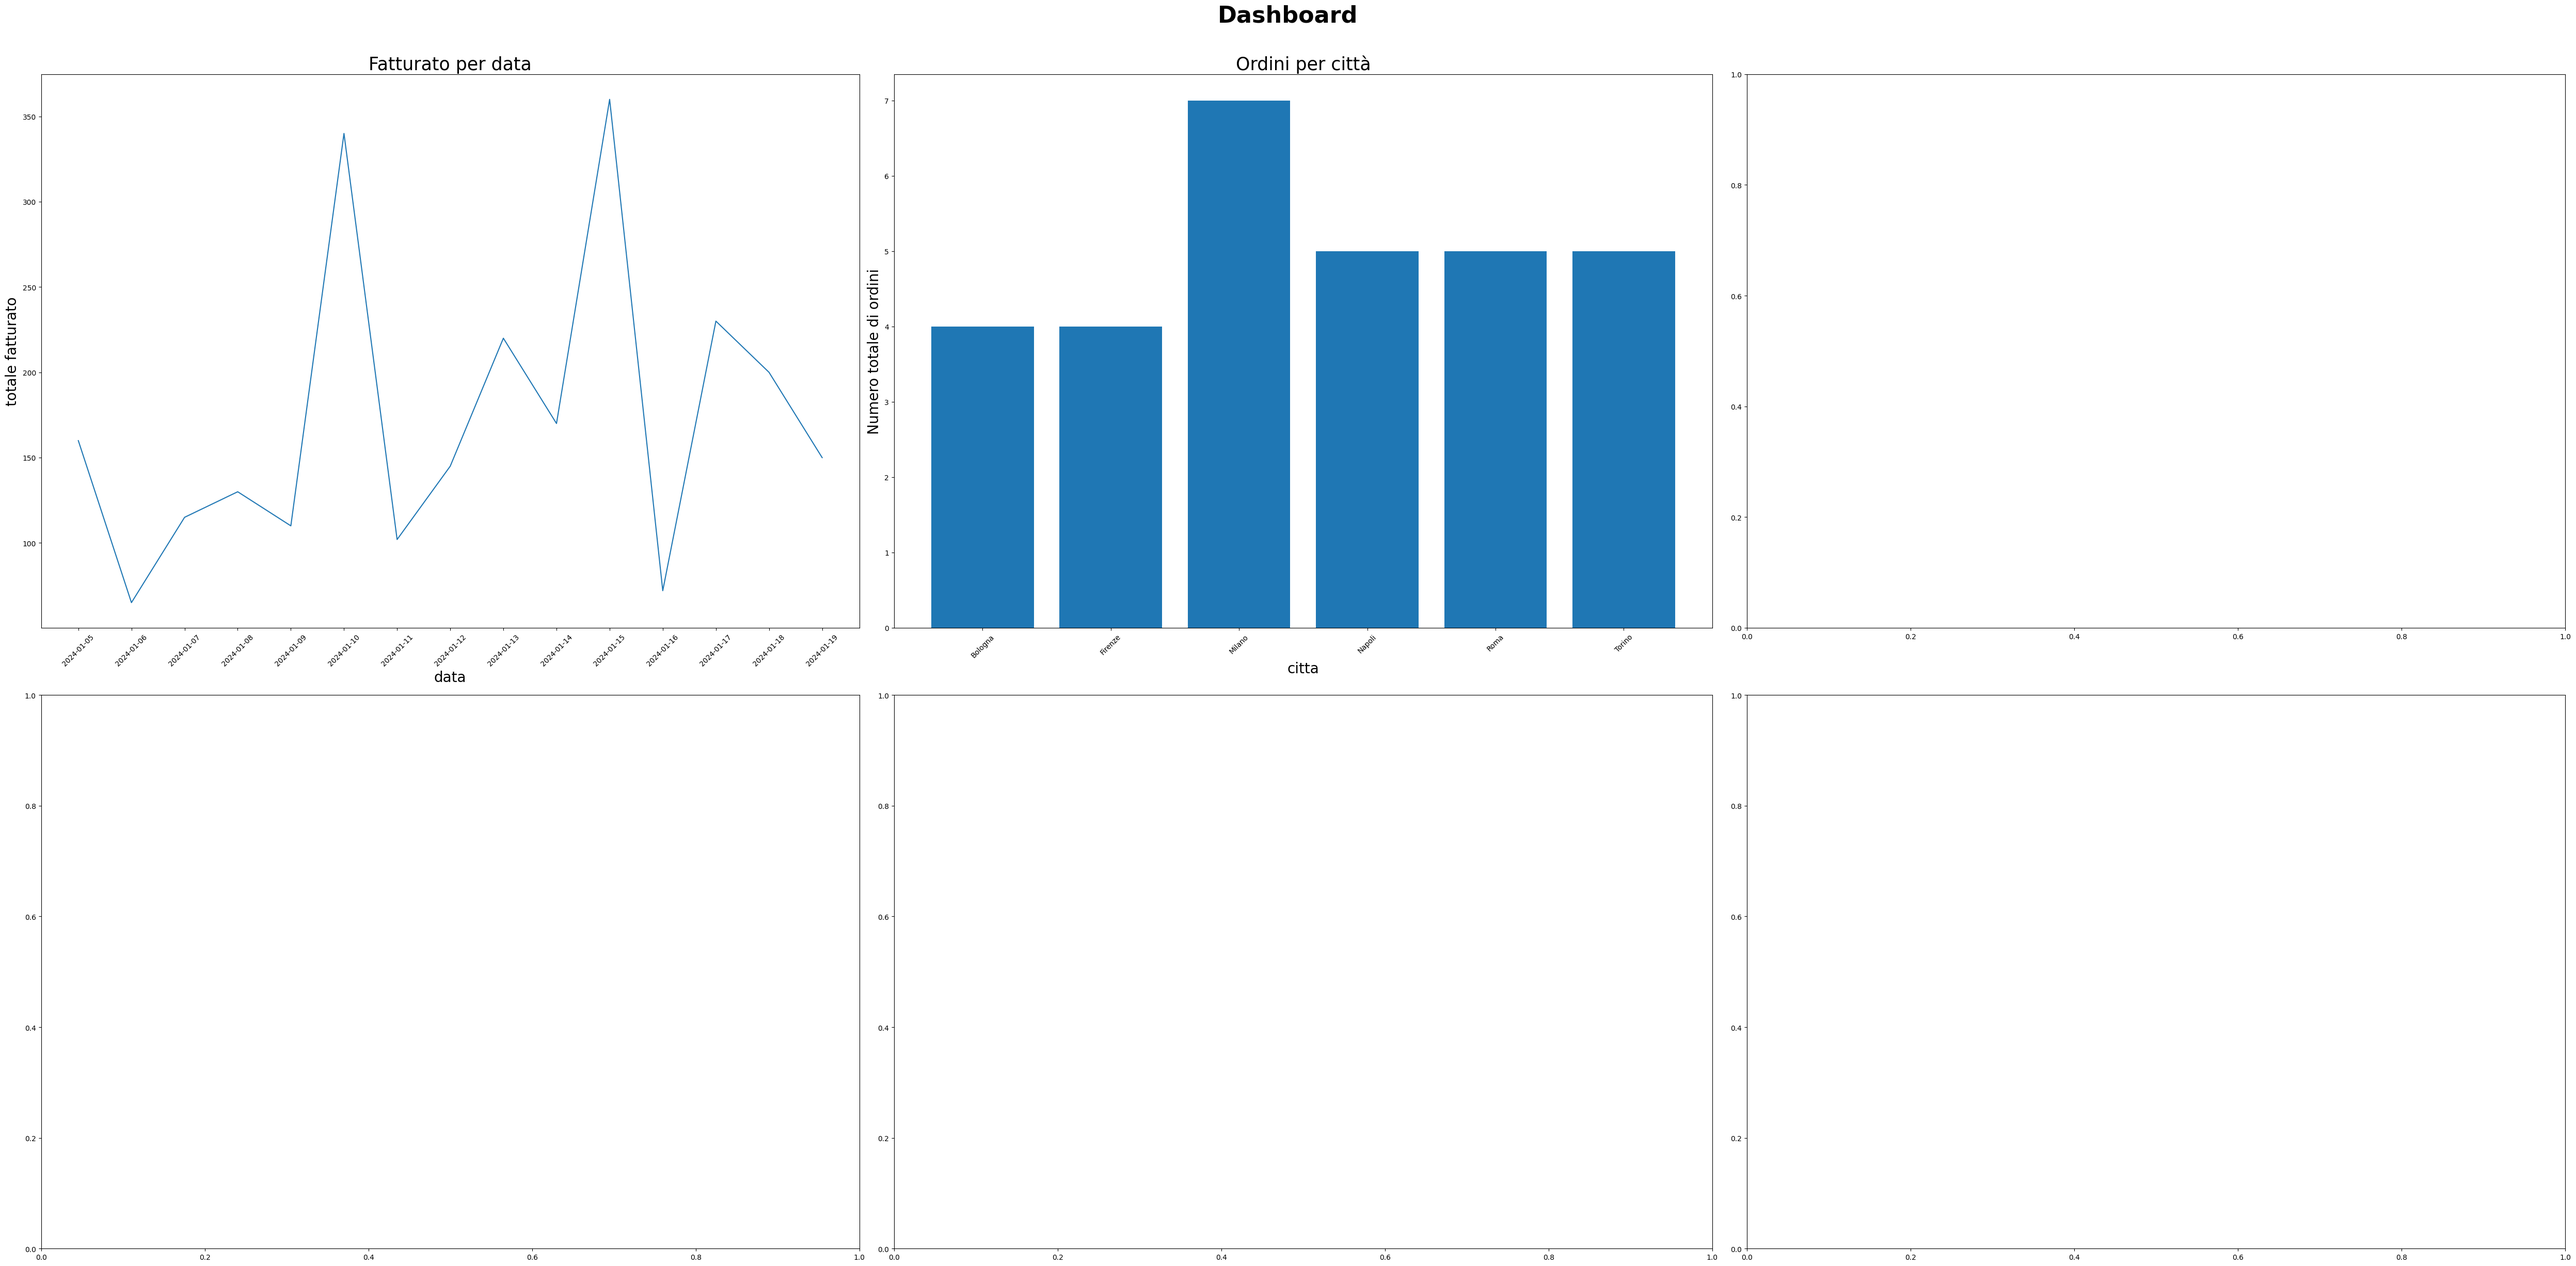
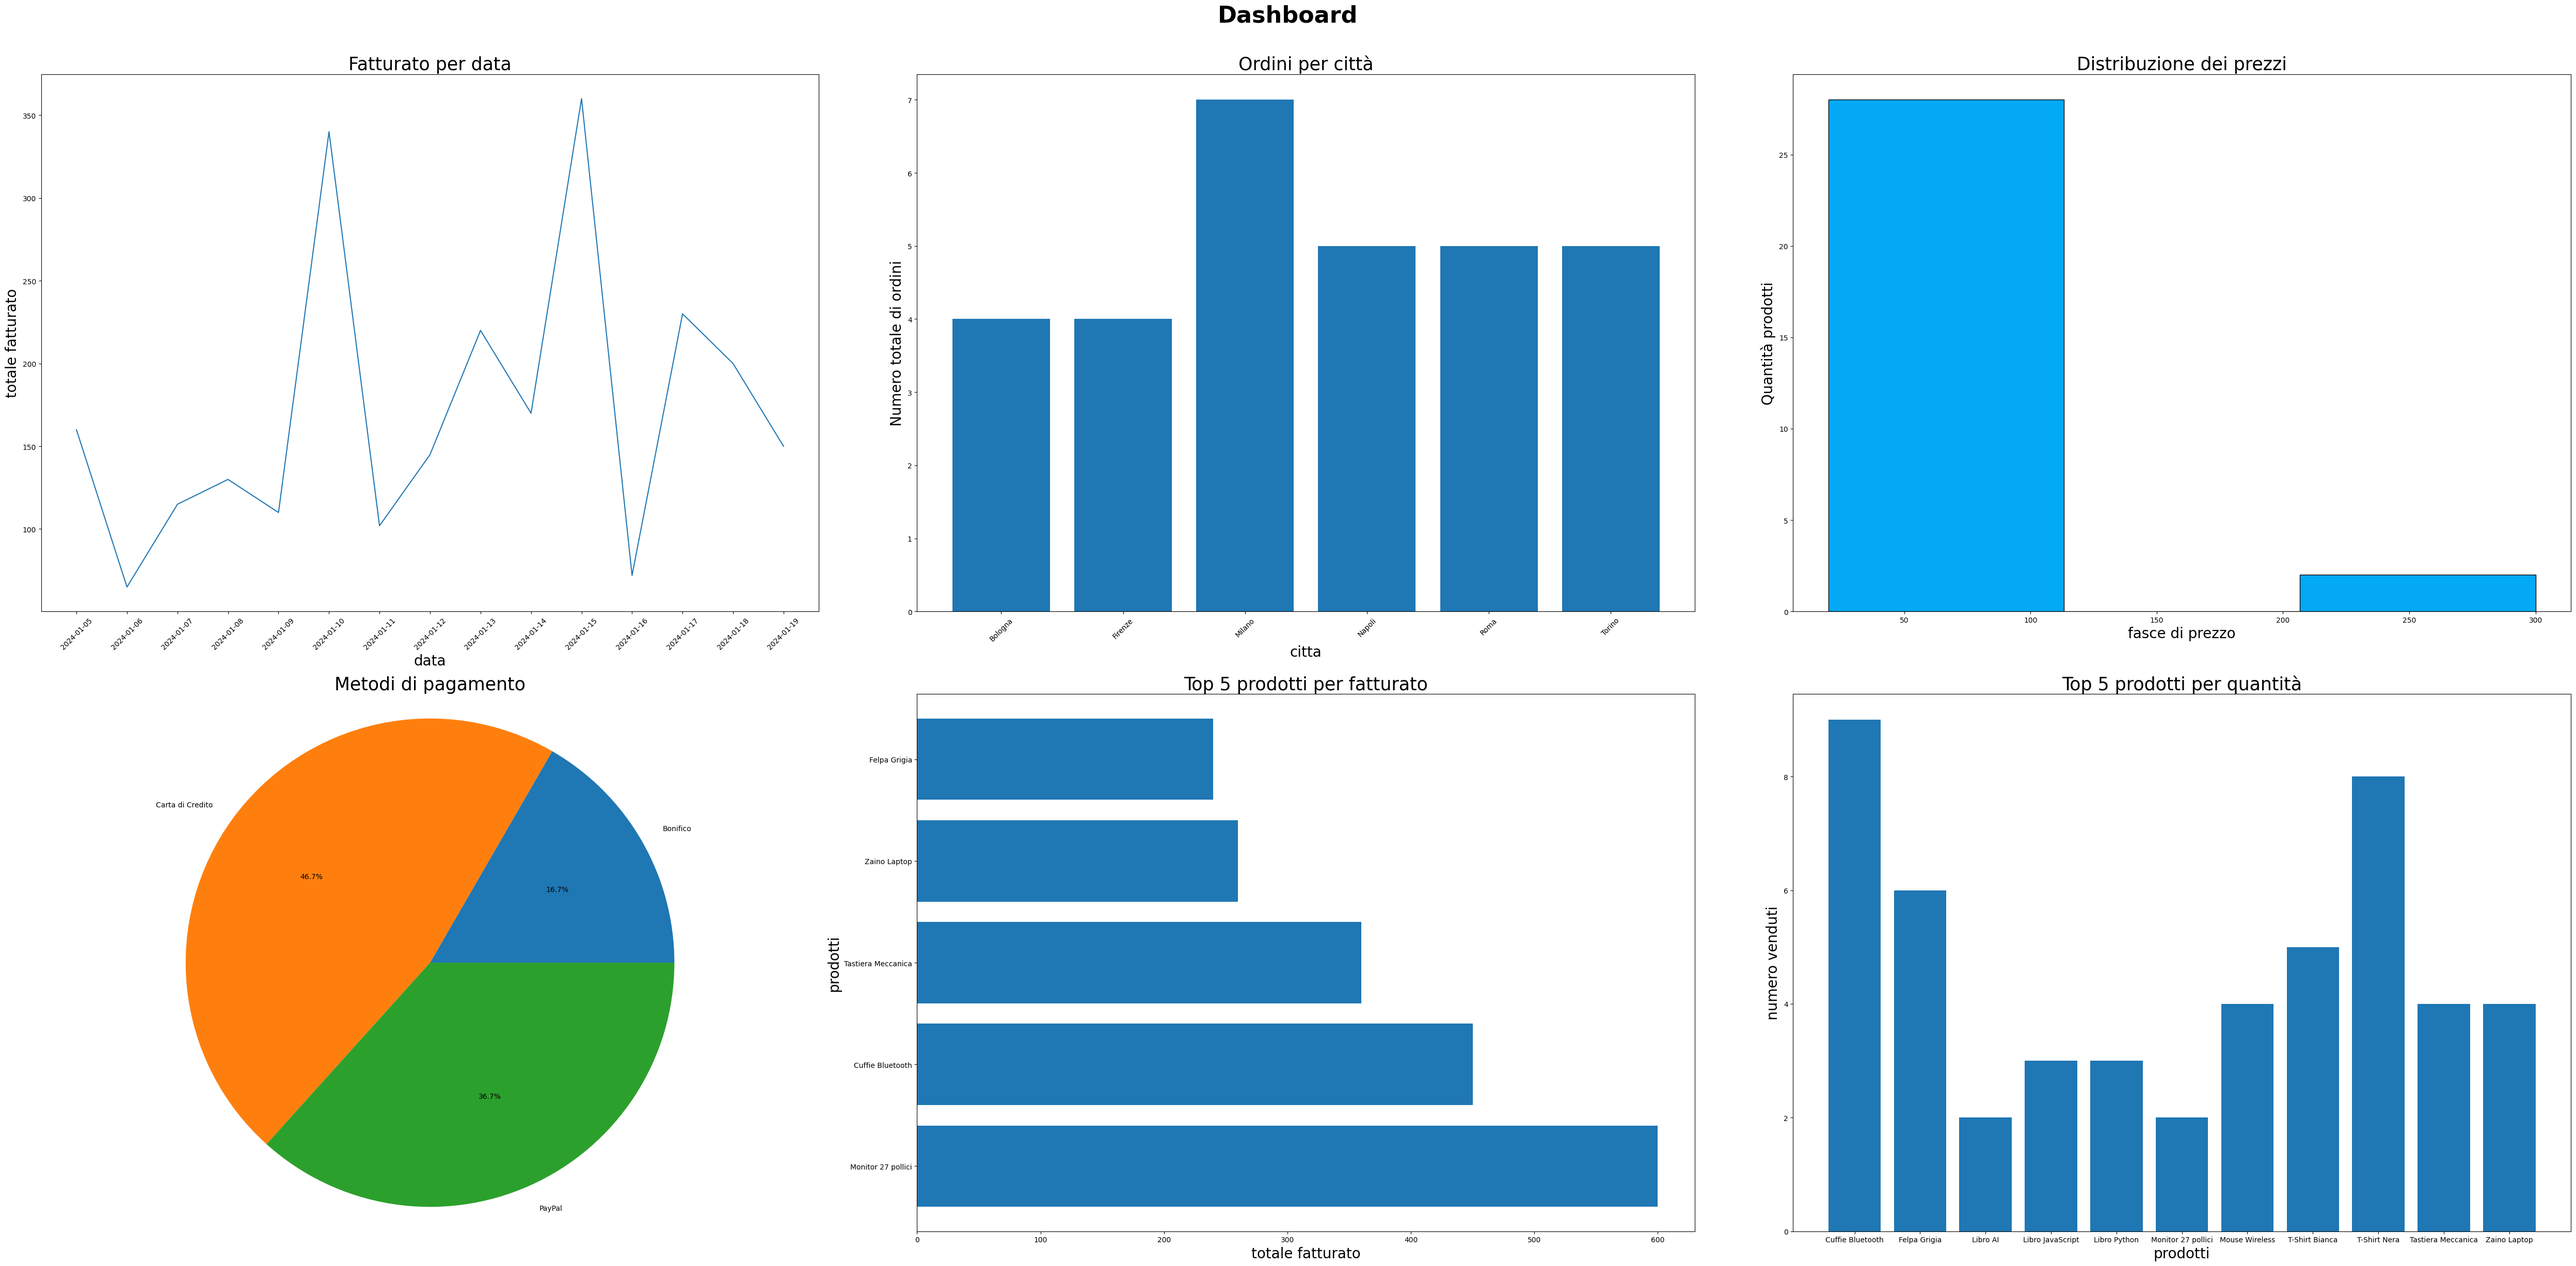
finito capitolo 11, fatto quiz d'ingresso capitolo 12

diff --git a/modulo_01_python_dati/12_web_bridge.py b/modulo_01_python_dati/12_web_bridge.py
@@ -62,6 +62,37 @@
 ============================================================================
 """
 
+# ==========================================================================
+# QUIZ D'INGRESSO (dal capitolo 11 — Matplotlib + report pre-plot)
+# ==========================================================================
+#
+# 1) [Definizione] Differenza tra `size()`, `count()` e `nunique()` in Pandas?
+#    Scrivi un esempio pratico su "ordini unici".
+# in un dataframe, .size() conta le righe di uno specifico gruppo,  .count() conta tutte le righe che non hanno valore null
+# e infine nunique conta gli elementi con valore unico
+#
+# 2) [Trova l'errore] In un esercizio hai scritto:
+#    `quantita = vendite.groupby("prodotto")["quantita"].sum()`
+#    ma la consegna chiedeva "quantità per categoria".
+#    Qual è l'errore concettuale? avrei dovuto raggruppare per categoria e non per prodotto
+#
+# 3) [Vero/Falso] `sort_index()` ordina i valori della Series. 
+# falso, ordine in base all'indice, e non per valore
+#
+# 4) [Prevedi output] Se `s = pd.Series([10, 20], index=["b", "a"])`,
+#    cosa produce `s.sort_index()`?
+# { a: 20, b: 10 }
+#
+# 5) [Completa codice] Completa:
+#    `ordini_unici = vendite.groupby("citta")["id_ordine"].nunique()`
+#
+# 6) [Vero/Falso] Con `density=True` in `hist()`, l'asse Y rappresenta il conteggio righe. 
+# falso, riporta il dato normalizzato per rappresentare il peso di un dato
+#
+# 7) [Spiega con parole tue - opzionale ingresso]
+#    Perché "report corretto prima del grafico" evita errori anche nelle API?
+# perchè fare un controllo sulla qualità, in generale evita che qualcosa posso bloccarsi
+
 from fastapi import FastAPI, Query
 from fastapi.middleware.cors import CORSMiddleware
 import pandas as pd
@@ -109,6 +140,41 @@ case = pd.read_csv(os.path.join(percorso_dati, "case.csv"))
 vendite["prezzo"] = vendite["prezzo"].astype(float)
 vendite["quantita"] = vendite["quantita"].astype(int)
 vendite["fatturato"] = vendite["prezzo"] * vendite["quantita"]
+
+# --- MINI-ESERCIZIO 1 — Prova subito! ---
+# 1) Stampa `vendite.shape` e `case.shape`
+# 2) Stampa quante città uniche ci sono in `vendite`
+# 3) Verifica il tipo di `vendite["fatturato"]`
+# Scrivi qui sotto:
+# ...
+
+# ==========================================================================
+# 🔁 RINFORZO MIRATO — Dal grafico all'API: stessa logica, stessi errori
+# ==========================================================================
+#
+# Nel capitolo 11 sono emerse 3 fragilita importanti:
+# 1) metrica giusta ma asse/label sbagliati
+# 2) groupby sulla dimensione sbagliata (es. prodotto vs categoria)
+# 3) consegna letta parzialmente (manca un requisito)
+#
+# In API succede UGUALE:
+# - endpoint = "grafico senza grafico"
+# - se l'aggregazione e sbagliata, restituisci JSON "formalmente valido" ma concettualmente errato
+#
+# Mini-regola pratica prima di ogni endpoint:
+# - COSA devi contare?
+#   * ordini unici -> nunique("id_ordine")
+#   * righe/documenti -> size() o count()
+#   * quantita venduta -> sum("quantita")
+# - SU QUALE dimensione?
+#   * per citta / per categoria / per prodotto (non confonderle)
+# - NOME CHIAVI JSON coerente con la metrica (es. "ordini_unici", non solo "ordini")
+#
+# Mini-check di consegna (obbligatorio):
+# [ ] ho tutti i campi richiesti in output
+# [ ] ho i tipi giusti (int/float/string)
+# [ ] il nome campo descrive davvero il valore
+# [ ] il sorting richiesto e applicato
 
 # ==========================================================================
 # ENDPOINT 1: Home — Benvenuto
@@ -171,7 +237,7 @@ def vendite_per_citta():
     Come: SELECT citta, COUNT(*), SUM(fatturato) GROUP BY citta
     """
     report = vendite.groupby("citta").agg(
-        ordini=("id_ordine", "count"),
+        ordini_unici=("id_ordine", "nunique"),
         fatturato=("fatturato", "sum"),
         ordine_medio=("fatturato", "mean")
     ).round(2)
@@ -180,7 +246,7 @@ def vendite_per_citta():
     for citta, dati in report.iterrows():
         risultato.append({
             "citta": citta,
-            "ordini": int(dati["ordini"]),
+            "ordini_unici": int(dati["ordini_unici"]),
             "fatturato": float(dati["fatturato"]),
             "ordine_medio": float(dati["ordine_medio"])
         })
@@ -231,6 +297,13 @@ def cerca_ordini(
         "risultati": int(len(risultato)),
         "data": risultato.to_dict(orient="records")
     }
+
+# --- MINI-ESERCIZIO 2 — Prova subito! ---
+# 1) Aggiungi un filtro opzionale `quantita_min` all'endpoint cerca_ordini
+# 2) Se presente, tieni solo righe con `quantita >= quantita_min`
+# 3) Testa da browser: /vendite/cerca?quantita_min=2
+# Scrivi qui sotto:
+# ...
 
 # ==========================================================================
 # ENDPOINT 5: Overview Case
@@ -339,6 +412,25 @@ def stats_per_grafici():
     }
 
 
+# ==========================================================================
+# 🔁 RINFORZO MIRATO — Coerenza requisito -> output API
+# ==========================================================================
+#
+# Se la consegna dice: "quantita vendute PER CATEGORIA"
+# NON devi raggruppare per prodotto.
+#
+# Esempio corretto:
+# quantita_categoria = vendite.groupby("categoria")["quantita"].sum().sort_values(ascending=False)
+# output:
+# {
+#   "labels": [...categorie...],
+#   "values": [...quantita...]
+# }
+#
+# Questo rinforzo serve a evitare l'errore emerso nel cap.11 dashboard:
+# richiesta = per categoria, implementazione = per prodotto.
+
+
 # ╔═════════════════════════════════════════════════════════════════════════╗
 # ║  COME TESTARE                                                         ║
 # ╚═════════════════════════════════════════════════════════════════════════╝
@@ -362,7 +454,32 @@ def stats_per_grafici():
 # ║  ESERCIZI — Ora Prova Tu!                                             ║
 # ╚═════════════════════════════════════════════════════════════════════════╝
 
-# ESERCIZIO 1 (Facile):
+# ==========================================================================
+# QUIZ DI VERIFICA (capitolo 12 — FastAPI Web Bridge)
+# ==========================================================================
+#
+# 1) [Definizione] Cosa fa `@app.get("/path")` in FastAPI?
+#
+# 2) [Vero/Falso] FastAPI genera automaticamente docs interattive su `/docs`.
+#
+# 3) [Trova l'errore] In un endpoint di filtro usi:
+#    `if prezzo_max:` invece di `if prezzo_max is not None:`
+#    perché può essere un problema?
+#
+# 4) [Prevedi output] Se chiami `/vendite/cerca?limit=2`, cosa limita quel parametro?
+#
+# 5) [Completa codice] Completa:
+#    `@app.get("/ping")`
+#    `def ping():`
+#    `    return {"status": "____"}`
+#
+# 6) [Spiega con parole tue - Feynman]
+#    Spiega a un collega Laravel la differenza tra endpoint "controller-like"
+#    e funzione FastAPI decorata.
+#
+# Scrivi le risposte qui sotto (nei commenti) prima degli esercizi.
+
+# 🎯 [COLLOQUIO] ESERCIZIO 1 (Facile):
 # Aggiungi un endpoint GET /vendite/top-prodotti che restituisca
 # i top 5 prodotti per fatturato.
 # Deve restituire: [{"prodotto": "...", "fatturato": 123.45, "quantita": 10}, ...]
@@ -371,7 +488,7 @@ def stats_per_grafici():
 # ...
 
 
-# ESERCIZIO 2 (Medio):
+# 🔀 [INTERLEAVING] ESERCIZIO 2 (Medio):
 # Aggiungi un endpoint GET /case/cerca che accetti parametri:
 # - citta (opzionale)
 # - mq_min e mq_max (opzionali)
@@ -383,7 +500,7 @@ def stats_per_grafici():
 # ...
 
 
-# ESERCIZIO 3 (Sfida — Connetti React):
+# 🔧 [REFACTORING] ESERCIZIO 3 (Sfida — Connetti React):
 # Se conosci React, crea un semplice componente che:
 # 1. Fa una fetch() a http://localhost:8000/vendite/overview
 # 2. Mostra i dati in una card con stile moderno
@@ -398,9 +515,79 @@ def stats_per_grafici():
 # }, []);
 
 
+# 🧠 [RETRIEVAL] ESERCIZIO 4 (Memoria attiva):
+# Senza guardare gli endpoint sopra, riscrivi da zero un endpoint GET
+# `/vendite/per-categoria` che restituisca:
+# - categoria
+# - ordini_unici (nunique su id_ordine)
+# - fatturato_totale
+# ordinato per fatturato_totale decrescente.
+#
+# Vincolo: usa naming coerente e tipi JSON puliti (int/float/string).
+
+
+# 🏗 PRODOTTO REALE (micro-task capitolo 12) — Bridge verso app documentale
+# Obiettivo: aggiungi un endpoint preview "semaforo operativo" riusando i dati disponibili.
+#
+# Task:
+# 1) Crea GET /pratiche/semaforo-preview
+# 2) Restituisci una lista di record con:
+#    - id_pratica (puo essere id_ordine nel mock)
+#    - score_genuinita (mock semplice 0-100)
+#    - semaforo (verde/giallo/rosso in base a soglie)
+#    - motivo_top1
+#
+# Deliverable atteso:
+# - endpoint funzionante e visibile in /docs
+# - JSON coerente con naming prodotto (score/semaforo/motivo)
+#
+# Definition of Done minima:
+# - almeno 5 record in output
+# - semaforo coerente con score
+# - naming chiavi allineato a APPUNTI_APPLICATIVO.md
+
+
+# 🏗 PROGETTO INCREMENTALE — Modulo 1 / Capitolo 12
+# Obiettivo capitolo: esporre via API il primo "ponte web" del progetto documentale.
+#
+# Task:
+# - crea endpoint `/progetto/overview` che ritorni:
+#   - totale_pratiche_mock
+#   - score_medio_mock
+#   - distribuzione_semaforo_mock
+# - crea endpoint `/progetto/pratiche` con filtro opzionale `semaforo`
+# - usa naming allineato al prodotto (`id_pratica`, `score_genuinita`, `semaforo`, `motivo_top1`)
+#
+# Deliverable:
+# - endpoint testabili da `/docs`
+# - JSON coerente con schema deciso negli appunti
+#
+# Definition of Done:
+# - almeno 1 endpoint overview + 1 endpoint lista filtrabile
+# - filtro `semaforo` funzionante
+# - output pronto per consumo frontend (React)
+
+
 # ╔═════════════════════════════════════════════════════════════════════════╗
 # ║  SOLUZIONI                                                             ║
 # ╚═════════════════════════════════════════════════════════════════════════╝
+
+# --- SOLUZIONI QUIZ D'INGRESSO (sintesi) ---
+# 1) size=righe del gruppo, count=non-null della colonna, nunique=valori distinti
+# 2) Errore dimensione: richiesta per categoria, implementato per prodotto
+# 3) Falso (sort_index ordina indice)
+# 4) indice ordinato: a->20, b->10
+# 5) nunique
+# 6) Falso (density=True -> densita/probabilita, non conteggio puro)
+# 7) Perche l'API espone la stessa aggregazione usata nel report/grafico
+
+# --- SOLUZIONI QUIZ DI VERIFICA (sintesi) ---
+# 1) Collega una route GET a una funzione Python
+# 2) Vero
+# 3) Perde il caso prezzo_max=0, serve controllo esplicito su None
+# 4) Limita il numero massimo di record restituiti
+# 5) {"status": "ok"}
+# 6) In FastAPI la funzione decorata e insieme route+handler con validazione automatica
 
 # --- SOLUZIONE ESERCIZIO 1 ---
 # @app.get("/vendite/top-prodotti")

diff --git a/modulo_01_python_dati/11_matplotlib_grafici.py b/modulo_01_python_dati/11_matplotlib_grafici.py
@@ -762,6 +762,29 @@ axes[0, 1].set_ylabel("Numero totale di ordini", fontsize=20)
 axes[0, 1].bar(ordini_per_citta.index, ordini_per_citta.values)
 axes[0, 1].tick_params(axis="x", rotation=45)
 
+axes[0, 2].set_title("Distribuzione dei prezzi", fontsize=25)
+axes[0, 2].set_xlabel("fasce di prezzo", fontsize=20) 
+axes[0, 2].set_ylabel("Quantità prodotti", fontsize=20)
+axes[0, 2].hist(vendite['prezzo'], bins=3, color="#03A9F4", edgecolor="black")
+
+metodi_pagamento = vendite.groupby('metodo_pagamento').size()
+labels = metodi_pagamento.index
+axes[1, 0].set_title("Metodi di pagamento", fontsize=25)
+axes[1, 0].pie(metodi_pagamento, labels= labels, autopct="%1.1f%%",)
+axes[1, 0].axis('equal')
+
+top_prodotti = vendite.groupby('prodotto')['fatturato'].sum().sort_values(ascending=False).head(5)
+axes[1, 1].set_title("Top 5 prodotti per fatturato", fontsize=25)
+axes[1, 1].set_xlabel("totale fatturato", fontsize=20) 
+axes[1, 1].set_ylabel("prodotti", fontsize=20)
+axes[1, 1].barh(top_prodotti.index, top_prodotti.values)
+
+quantita_venduti = vendite.groupby('prodotto')['quantita'].sum()
+axes[1, 2].set_title("Top 5 prodotti per quantità", fontsize=25)
+axes[1, 2].set_xlabel("prodotti", fontsize=20) 
+axes[1, 2].set_ylabel("numero venduti", fontsize=20)
+axes[1, 2].bar(quantita_venduti.sort_index().index, quantita_venduti.sort_index().values)
+
 
 fig.suptitle("Dashboard", fontsize=32, fontweight="bold")
 fig.tight_layout(rect=[0, 0, 1, 0.97])
